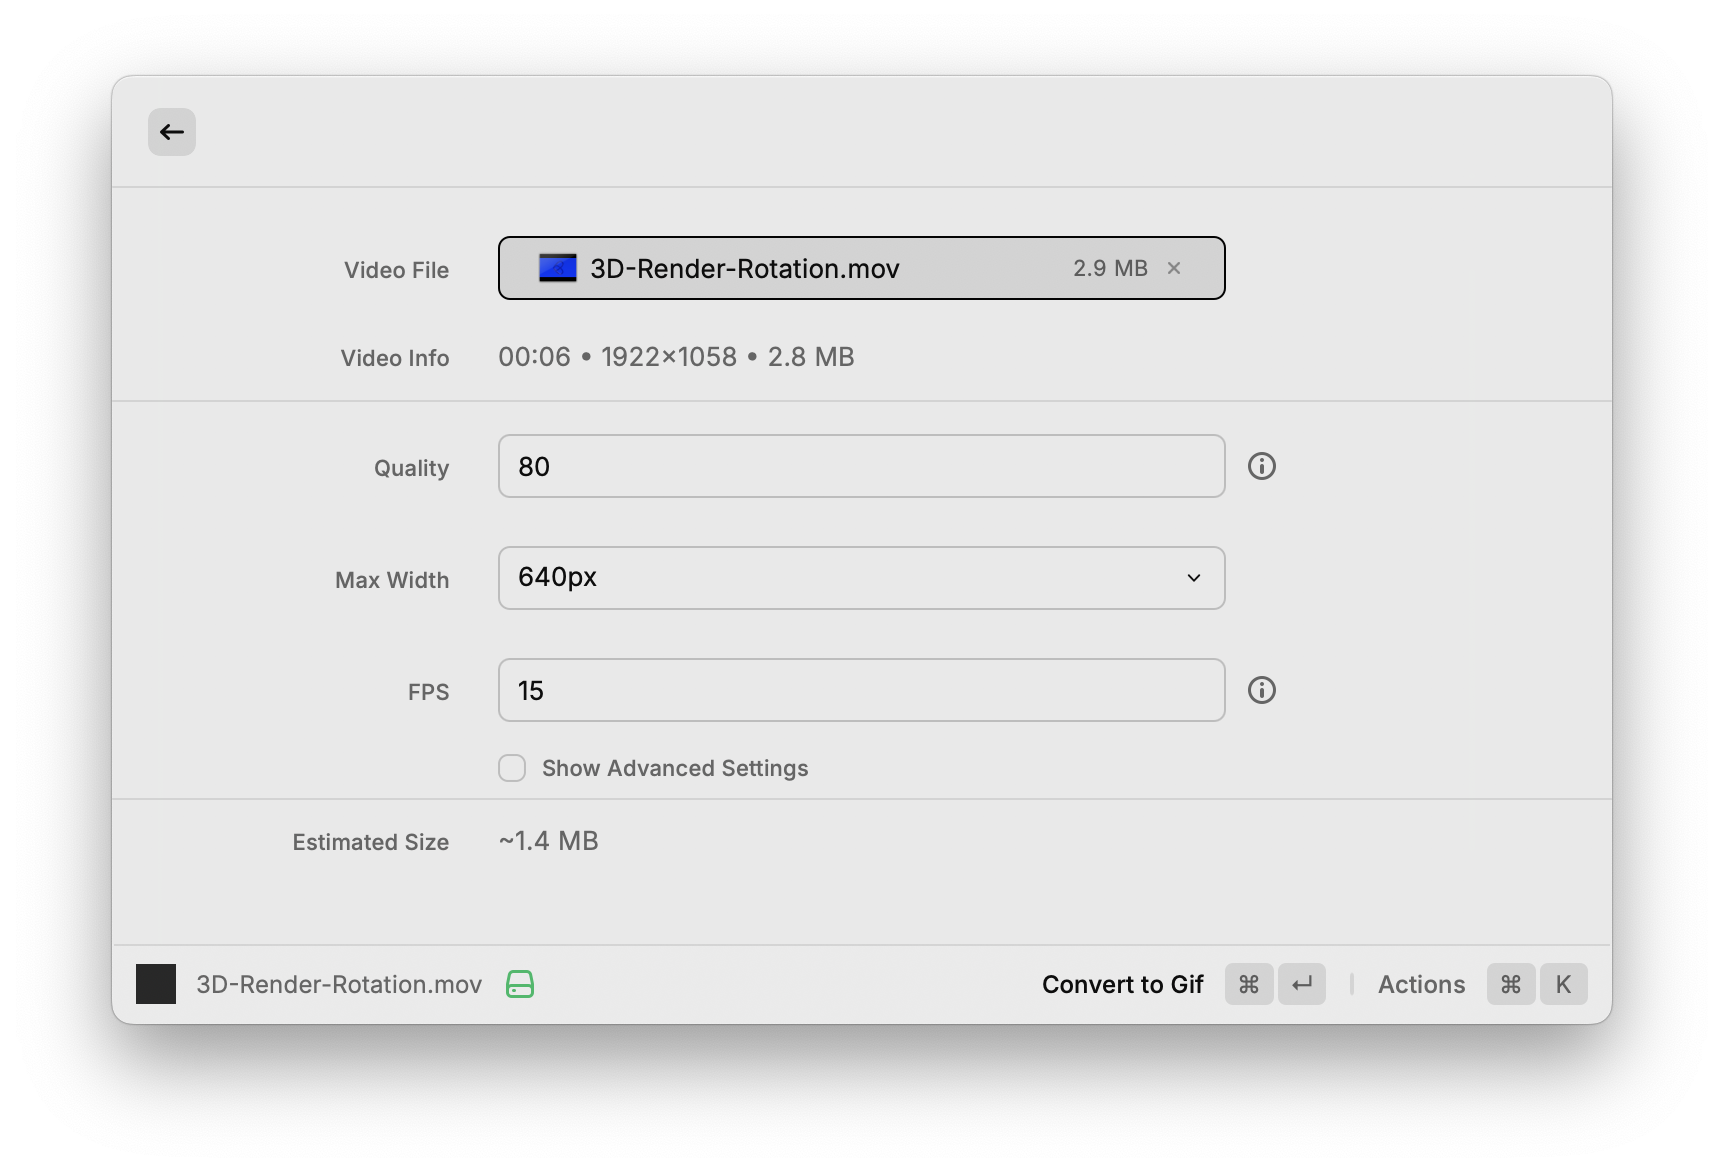
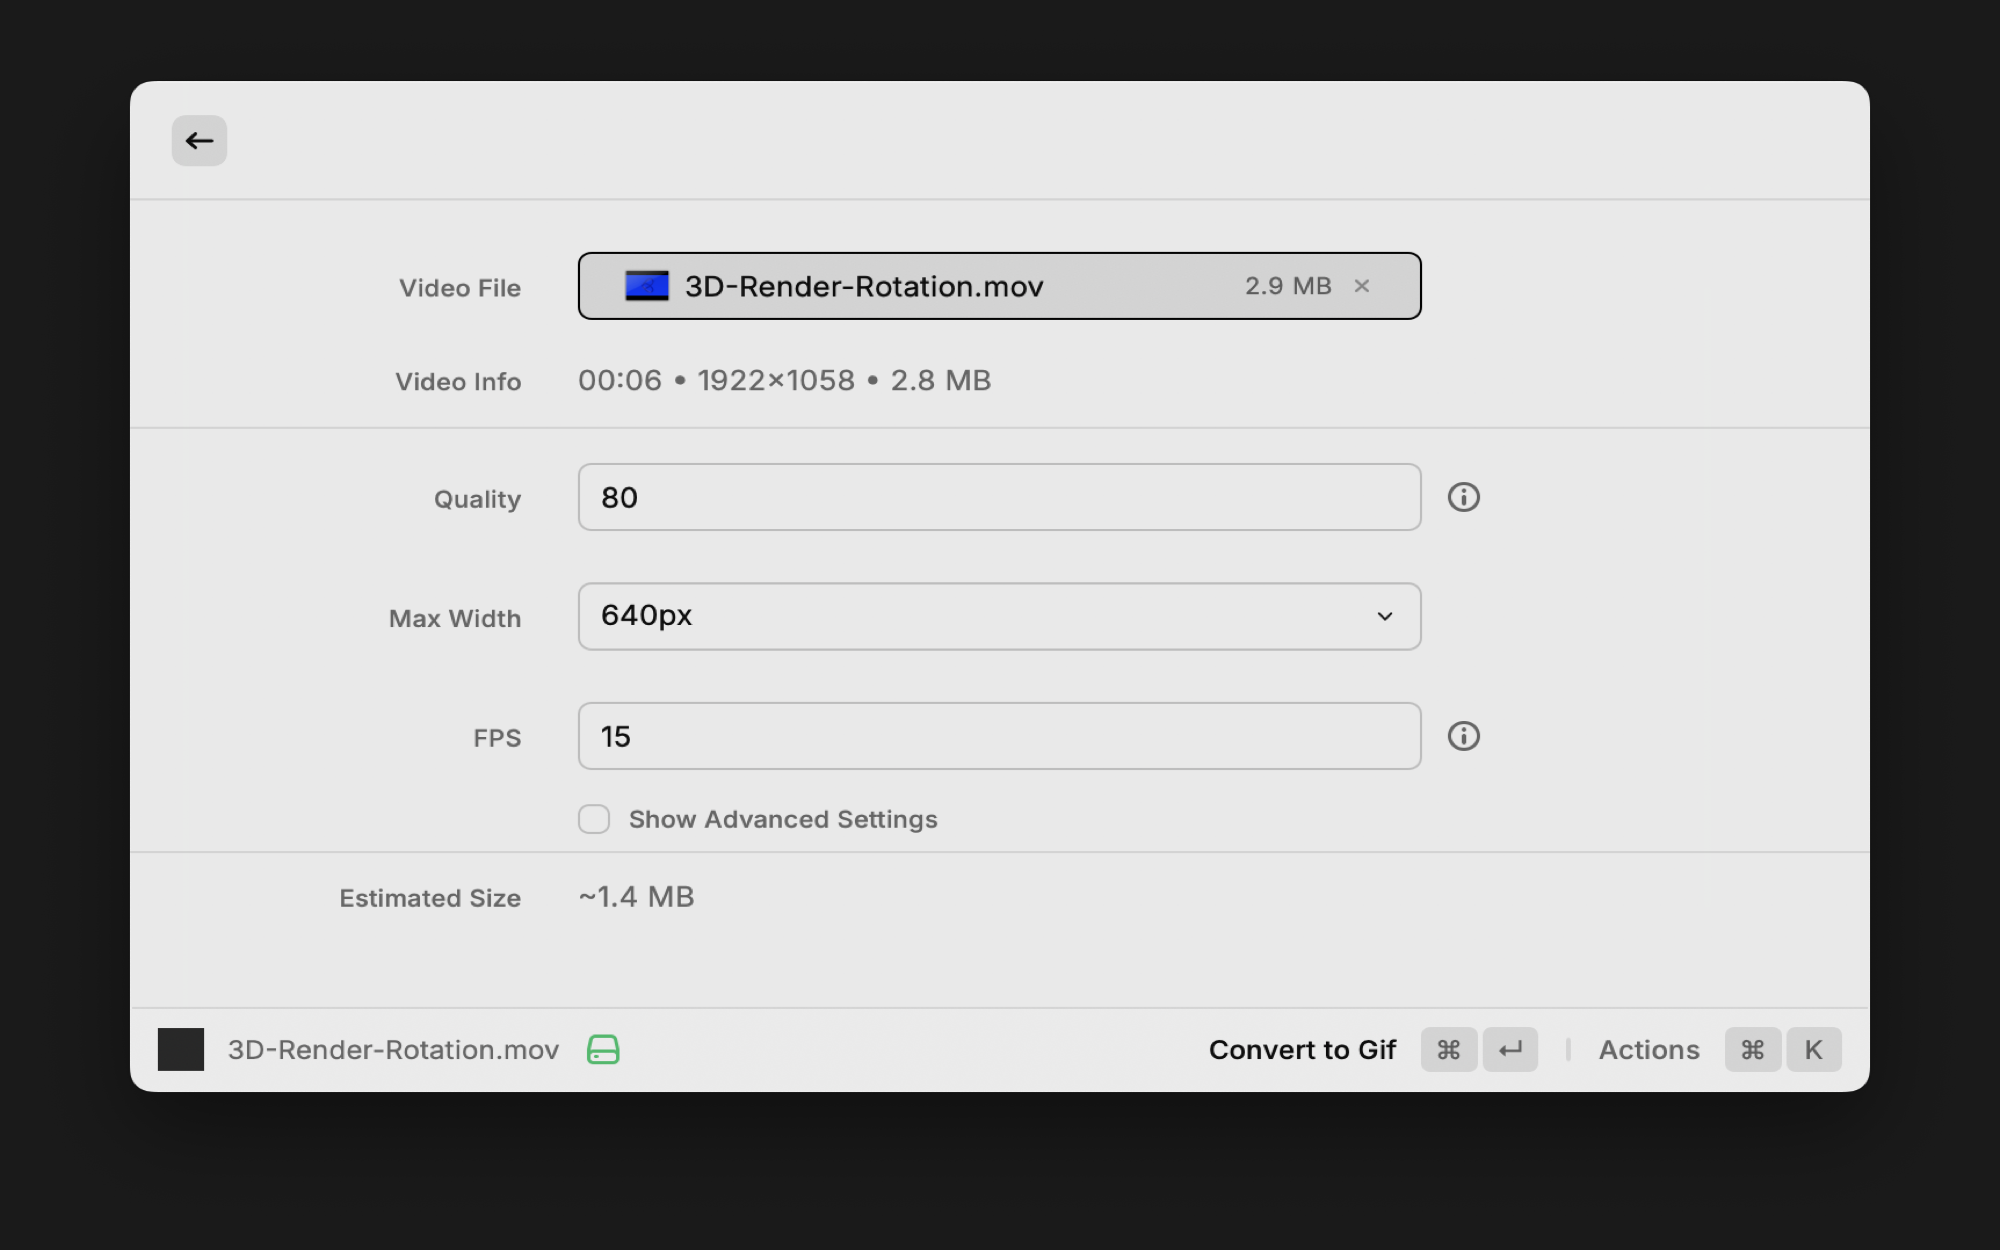
Add CHANGELOG and resize assets for Raycast store
- Resize icon to 512x512 (store requirement)
- Resize screenshots to 2000x1250 16:10 (store requirement)
- Add CHANGELOG.md for v1.0.0

diff --git a/CHANGELOG.md b/CHANGELOG.md
@@ -1,0 +1,14 @@
+# Video2Gif Changelog
+
+## [1.0.0] - 2026-03-26
+
+### Added
+
+- Quick Convert command — select a video in Finder, trigger the command, get a GIF
+- Custom Convert command — form with quality, max width, FPS, speed, loop count, and trim controls
+- Two-pass palette generation for high-quality GIF output
+- Estimated file size preview before conversion
+- Automatic video file detection from Finder selection or clipboard
+- Conversion history stored locally
+- Configurable output folder, default quality, and long video threshold via preferences
+- Support for MP4, MOV, AVI, MKV, WebM, FLV, WMV, M4V, 3GP, and MPEG formats
